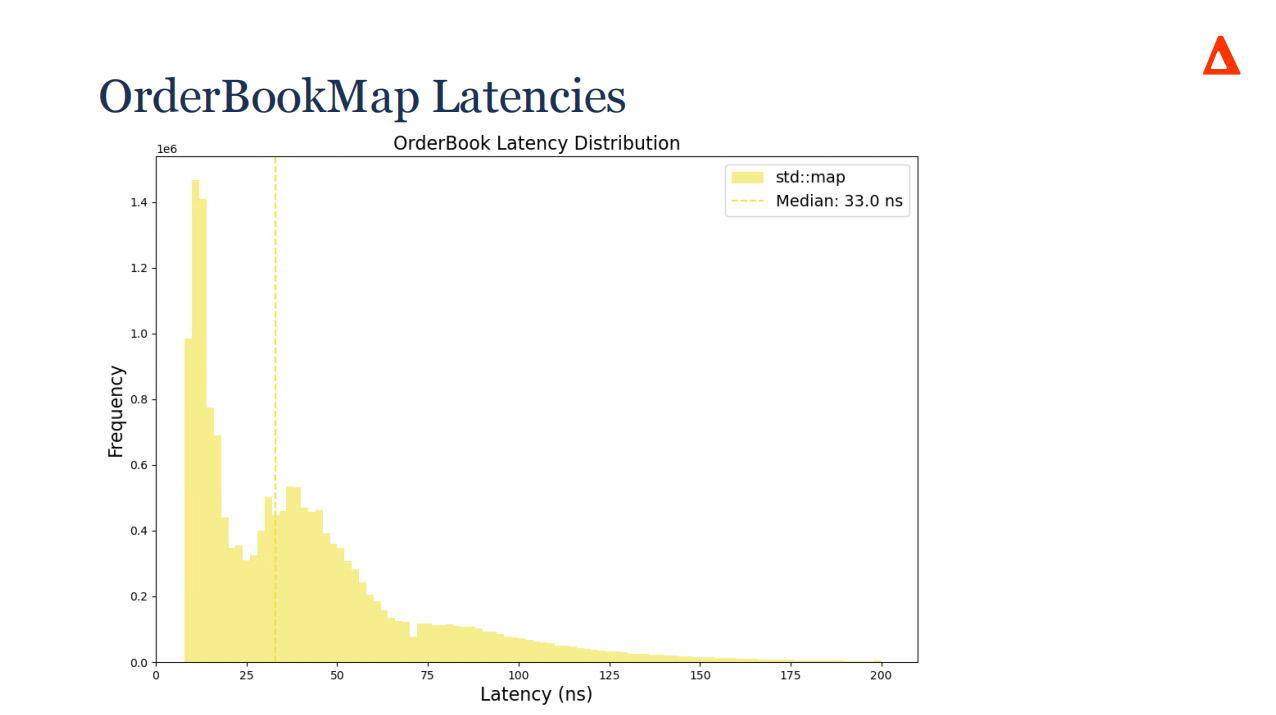
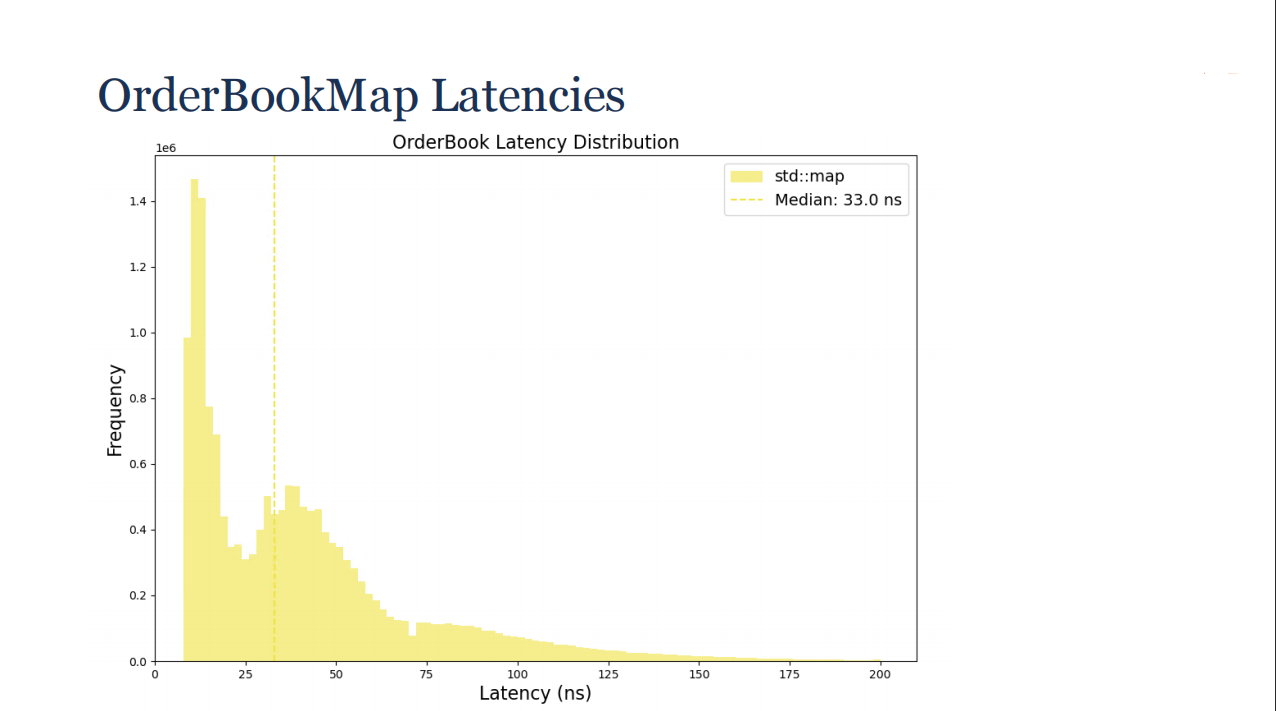
Update Pictures.

diff --git a/README.md b/README.md
@@ -2,7 +2,7 @@
 
 > *Named after the winged horse of Greek mythology — built for speed, precision, and endurance.*
 
-![Pegasus HFT System](./img/Pegasus_HFT_System.png)
+![Pegasus HFT System](./img/Pegasus_HFT_System_Evolution.png)
 
 ---
 
